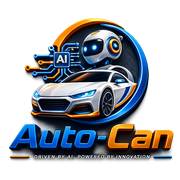
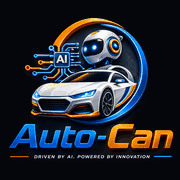
SEO and social: complete the metadata surface
- Purpose-built 1200x630 Open Graph card. Social crawlers were previously
  pointed at a 900x569 hero render, which is below every platform's minimum.
  Ships with width/height/alt/secure_url and a matching twitter:image:alt.
- Narrow the schema.org WebPage subtype per route (AboutPage, ContactPage,
  CollectionPage) and finally publish the Service ItemList that schema.js
  already exported but no page ever rendered. Add an Organization
  contactPoint and primaryImageOfPage.
- The manifest declared logo.png as 512x512 when the file was 128x128, so
  installability failed. Regenerate 192/512/maskable icons and a multi-size
  favicon.ico from the original 1024px artwork.
- Sitemap gains an image entry and current lastmod dates.

diff --git a/src/seo/pages.seo.js b/src/seo/pages.seo.js
@@ -6,25 +6,25 @@ export const pageSeo = {
     breadcrumb: [{ name: 'Home', path: '/' }],
   },
   services: {
-    path: '/services', title: 'Automotive Engineering Services | AUTO-CAN Solutions',
+    path: '/services', type: 'CollectionPage', title: 'Automotive Engineering Services | AUTO-CAN Solutions',
     description: 'End-to-end automotive embedded services: embedded SW stacks (BSW, CAN, LIN, UDS), engineering tools, test automation, HiL & V&V, and embedded hardware design.',
     keywords: 'automotive software services, embedded software stacks, test automation framework, HiL V&V, bootloader flashing tool, calibration tool',
     breadcrumb: [{ name: 'Home', path: '/' }, { name: 'Services', path: '/services' }],
   },
   expertise: {
-    path: '/expertise', title: 'Domain Expertise & Standards | AUTO-CAN Solutions',
+    path: '/expertise', type: 'CollectionPage', title: 'Domain Expertise & Standards | AUTO-CAN Solutions',
     description: 'Foundational and next-generation automotive expertise: MISRA C, Embedded Linux, CAN, FlexRay, AUTOSAR, ISO 26262, OTA, ADAS, Automotive Ethernet, cybersecurity and V2X.',
     keywords: 'AUTOSAR, ISO 26262, automotive ethernet, MISRA C, FlexRay, ADAS, OTA updates, V2X, automotive cybersecurity',
     breadcrumb: [{ name: 'Home', path: '/' }, { name: 'Expertise', path: '/expertise' }],
   },
   about: {
-    path: '/about', title: 'About AUTO-CAN Solutions | A Decade of Automotive Engineering',
+    path: '/about', type: 'AboutPage', title: 'About AUTO-CAN Solutions | A Decade of Automotive Engineering',
     description: 'Founded in 2013 in Jaipur, AUTO-CAN Solutions grew from HiL testing into a full-stack automotive embedded engineering partner. Learn our story, timeline and differentiators.',
     keywords: 'AUTO-CAN Solutions about, automotive engineering company India, HiL testing company, embedded software company Jaipur',
     breadcrumb: [{ name: 'Home', path: '/' }, { name: 'About', path: '/about' }],
   },
   careers: {
-    path: '/careers', title: 'Careers, Engagement Models & Campus Connect | AUTO-CAN Solutions',
+    path: '/careers', type: 'CollectionPage', title: 'Careers, Engagement Models & Campus Connect | AUTO-CAN Solutions',
     description: 'ODC and Deputation engagement models, structured Learning & Development, and Campus Connect partnerships that turn fresh talent into automotive embedded engineers.',
     keywords: 'automotive engineering careers, ODC model, deputation model, campus connect, automotive embedded training, Jaipur Pune delivery centres',
     breadcrumb: [{ name: 'Home', path: '/' }, { name: 'Careers', path: '/careers' }],
@@ -40,7 +40,7 @@ export const pageSeo = {
     breadcrumb: [{ name: 'Home', path: '/' }, { name: 'Terms & Conditions', path: '/terms-and-conditions' }],
   },
   contact: {
-    path: '/contact', title: 'Contact AUTO-CAN Solutions | Automotive Embedded Partner',
+    path: '/contact', type: 'ContactPage', title: 'Contact AUTO-CAN Solutions | Automotive Embedded Partner',
     description: 'Talk to AUTO-CAN Solutions about your automotive program. Same-day deployment, flexible engagement models, and regulatory experience across NA, Europe, Japan and APAC.',
     keywords: 'contact AUTO-CAN Solutions, automotive embedded partner, hire automotive engineers, HiL testing services',
     breadcrumb: [{ name: 'Home', path: '/' }, { name: 'Contact', path: '/contact' }],

diff --git a/src/seo/SEO.jsx b/src/seo/SEO.jsx
@@ -2,17 +2,24 @@ import { Head } from 'vite-react-ssg'
 import { SITE_URL, ORG } from './site.config'
 import { webPageSchema, breadcrumbSchema, faqSchema, graph } from './schema'
 
-// Renders per-page <head> tags + JSON-LD into the prerendered HTML.
-export default function SEO({ seo, faqs, extraNodes = [] }) {
+/**
+ * Per-page <head> tags + JSON-LD, baked into the prerendered HTML.
+ *
+ * `seo.type` optionally narrows the schema.org WebPage subtype
+ * (AboutPage / ContactPage / CollectionPage) for richer entity understanding.
+ */
+export default function SEO({ seo, faqs, extraNodes = [], noindex = false }) {
   const url = SITE_URL + seo.path
   const img = SITE_URL + ORG.ogImage
+  const imgAlt = seo.imageAlt || `${ORG.name} — ${ORG.slogan}`
+
   const nodes = [
     webPageSchema(seo),
     seo.breadcrumb && breadcrumbSchema(seo.breadcrumb),
     faqs?.length && faqSchema(faqs),
     ...extraNodes,
   ]
-  const jsonLd = graph(nodes)
+
   return (
     <Head>
       <html lang="en" />
@@ -20,19 +27,33 @@ export default function SEO({ seo, faqs, extraNodes = [] }) {
       <meta name="description" content={seo.description} />
       {seo.keywords && <meta name="keywords" content={seo.keywords} />}
       <link rel="canonical" href={url} />
-      <meta name="robots" content="index, follow, max-image-preview:large, max-snippet:-1" />
+      <meta
+        name="robots"
+        content={noindex ? 'noindex, nofollow' : 'index, follow, max-image-preview:large, max-snippet:-1, max-video-preview:-1'}
+      />
+
+      {/* Open Graph */}
       <meta property="og:type" content="website" />
       <meta property="og:site_name" content={ORG.name} />
       <meta property="og:title" content={seo.title} />
       <meta property="og:description" content={seo.description} />
       <meta property="og:url" content={url} />
       <meta property="og:image" content={img} />
+      <meta property="og:image:secure_url" content={img} />
+      <meta property="og:image:type" content="image/png" />
+      <meta property="og:image:width" content={String(ORG.ogImageSize.width)} />
+      <meta property="og:image:height" content={String(ORG.ogImageSize.height)} />
+      <meta property="og:image:alt" content={imgAlt} />
       <meta property="og:locale" content="en_US" />
+
+      {/* Twitter / X */}
       <meta name="twitter:card" content="summary_large_image" />
       <meta name="twitter:title" content={seo.title} />
       <meta name="twitter:description" content={seo.description} />
       <meta name="twitter:image" content={img} />
-      <script type="application/ld+json">{JSON.stringify(jsonLd)}</script>
+      <meta name="twitter:image:alt" content={imgAlt} />
+
+      <script type="application/ld+json">{JSON.stringify(graph(nodes))}</script>
     </Head>
   )
 }

diff --git a/src/seo/schema.js b/src/seo/schema.js
@@ -28,6 +28,14 @@ export function organizationSchema() {
       'OTA updates', 'V2X', 'Automotive cybersecurity',
     ],
   }
+  org.contactPoint = [{
+    '@type': 'ContactPoint',
+    contactType: 'sales',
+    email: ORG.email,
+    areaServed: ORG.areaServed,
+    availableLanguage: ['en'],
+    ...(ORG.telephone ? { telephone: ORG.telephone } : {}),
+  }]
   if (ORG.telephone) org.telephone = ORG.telephone
   if (ORG.sameAs?.length) org.sameAs = ORG.sameAs
   return org
@@ -61,9 +69,9 @@ export function websiteSchema() {
   }
 }
 
-export function webPageSchema({ path, title, description }) {
+export function webPageSchema({ path, title, description, type }) {
   return {
-    '@type': 'WebPage',
+    '@type': type || 'WebPage',
     '@id': SITE_URL + path + '#webpage',
     url: SITE_URL + path,
     name: title,
@@ -71,6 +79,7 @@ export function webPageSchema({ path, title, description }) {
     isPartOf: { '@id': SITE_URL + '/#website' },
     about: { '@id': SITE_URL + '/#organization' },
     inLanguage: 'en',
+    primaryImageOfPage: { '@type': 'ImageObject', url: abs(ORG.ogImage) },
   }
 }
 

diff --git a/src/seo/site.config.js b/src/seo/site.config.js
@@ -8,7 +8,8 @@ export const ORG = {
   slogan: 'Driven by AI. Powered by Innovation.',
   founded: '2013',
   logo: '/logo.png',
-  ogImage: '/hero-graphic.png',
+  ogImage: '/og-image.png',
+  ogImageSize: { width: 1200, height: 630 },
   email: 'info@auto-can.in',
   telephone: '', // TODO: e.g. '+91-141-0000000' — leave '' to omit
   sameAs: [
